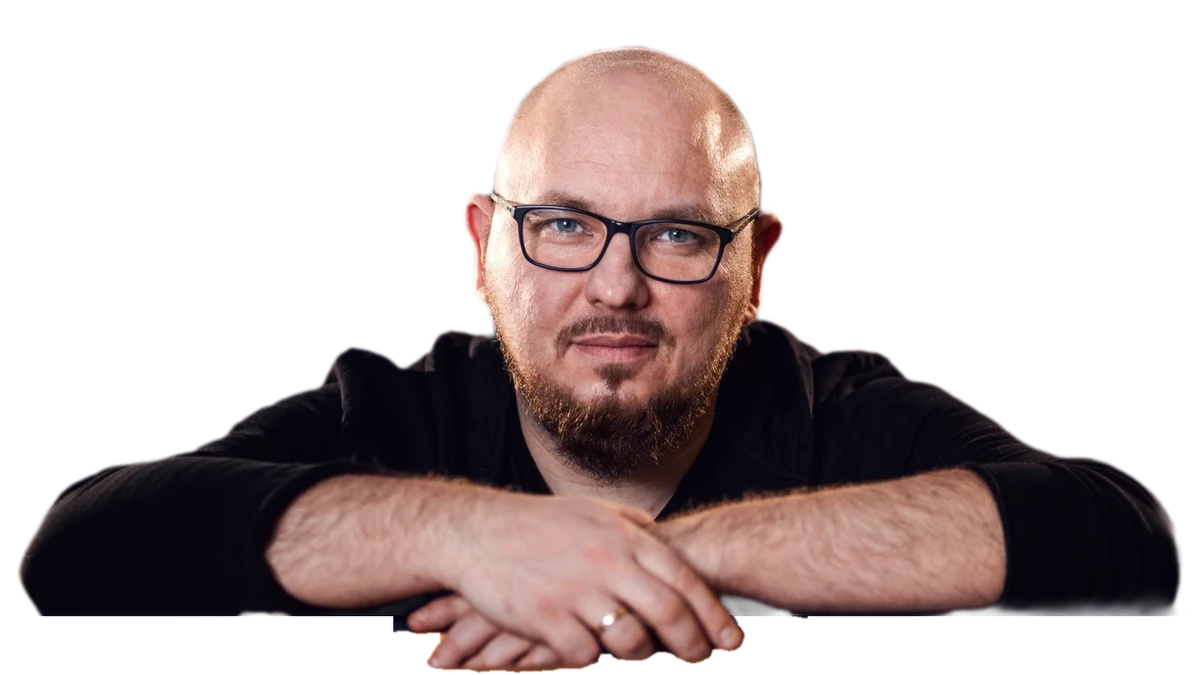
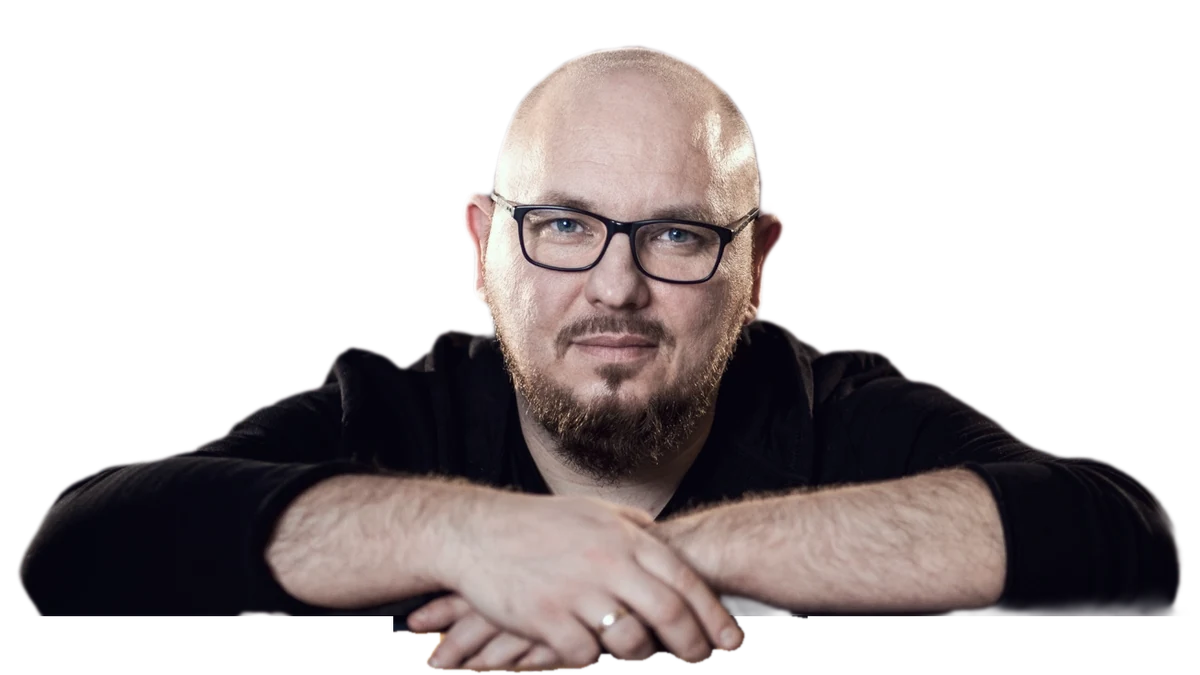
Ciemny pierwszy ekran ze zdjęciem (biały tekst w lewej kolumnie), dokładne narożniki ekranu laptopa, Układ Komediowy na laptopie, historie: tekst po stronie bez laptopa, chłodniejszy portret

diff --git a/src/lib/glowna-tresc.ts b/src/lib/glowna-tresc.ts
@@ -55,6 +55,8 @@ export interface Historia {
   obraz: string;
   /** Gdzie na zdjęciu stoi laptop, żeby na telefonie kadr go nie uciął (object-position). */
   kadr: string;
+  /** Po której stronie zdjęcia stoi tekst: tam, gdzie nie ma laptopa. */
+  tekst: 'lewo' | 'prawo';
   tytul: string;
   opis: string;
   href: string;
@@ -63,8 +65,8 @@ export interface Historia {
 
 /** Sekcja realizacji w stylu „historie”: zdjęcie przy laptopie + zakładki 01–03 + rozwijane pytania. */
 export const HISTORIE: Historia[] = [
-  { nazwa: 'Pan Kolektor', etykieta: 'Serwis kolektorów', obraz: '/images/glowna/historie/pankolektor.webp', kadr: '82% 50%', tytul: 'Telefon zawsze pod ręką', opis: 'Numer w nagłówku i na pierwszym ekranie, certyfikaty i realizacje z dachów. Klient z awarią dzwoni od razu, zamiast szukać dalej.', href: '/realizacje/pan-kolektor/', pytania: [['A jeśli nie mam dobrych zdjęć?', 'Wystarczą zdjęcia z telefonu z Twoich realizacji. Wybieramy najlepsze i dbamy, żeby wyglądały porządnie.'], ['Kto pisze treści?', 'My. Po 15-minutowej rozmowie piszemy teksty o Twoich usługach, a Ty tylko je akceptujesz.']] },
-  { nazwa: 'R&L Serwis', etykieta: 'Firma sprzątająca', obraz: '/images/glowna/historie/rlserwis.webp', kadr: '30% 50%', tytul: 'Dwie ścieżki zamiast jednego formularza', opis: 'Osobna wycena dla domu i dla biura, opinie klientów na pierwszym ekranie. Każdy od razu trafia tam, gdzie powinien.', href: '/realizacje/rl-serwis/', pytania: [['Czy zapytania przyjdą na telefon?', 'Tak. Każde zgłoszenie z formularza od razu trafia na Twój telefon i maila.'], ['A jak będę chciał coś zmienić?', 'Piszesz maila. Do godziny zmian w miesiącu jest w cenie.']] },
+  { nazwa: 'Pan Kolektor', etykieta: 'Serwis kolektorów', obraz: '/images/glowna/historie/pankolektor.webp', kadr: '82% 50%', tekst: 'lewo', tytul: 'Telefon zawsze pod ręką', opis: 'Numer w nagłówku i na pierwszym ekranie, certyfikaty i realizacje z dachów. Klient z awarią dzwoni od razu, zamiast szukać dalej.', href: '/realizacje/pan-kolektor/', pytania: [['A jeśli nie mam dobrych zdjęć?', 'Wystarczą zdjęcia z telefonu z Twoich realizacji. Wybieramy najlepsze i dbamy, żeby wyglądały porządnie.'], ['Kto pisze treści?', 'My. Po 15-minutowej rozmowie piszemy teksty o Twoich usługach, a Ty tylko je akceptujesz.']] },
+  { nazwa: 'R&L Serwis', etykieta: 'Firma sprzątająca', obraz: '/images/glowna/historie/rlserwis.webp', kadr: '30% 50%', tekst: 'prawo', tytul: 'Dwie ścieżki zamiast jednego formularza', opis: 'Osobna wycena dla domu i dla biura, opinie klientów na pierwszym ekranie. Każdy od razu trafia tam, gdzie powinien.', href: '/realizacje/rl-serwis/', pytania: [['Czy zapytania przyjdą na telefon?', 'Tak. Każde zgłoszenie z formularza od razu trafia na Twój telefon i maila.'], ['A jak będę chciał coś zmienić?', 'Piszesz maila. Do godziny zmian w miesiącu jest w cenie.']] },
 ];
 
 /** Trzy duże kadry na górze sekcji: firmy usługowe na tym samym planie co klient. */
@@ -128,11 +130,12 @@ export { ROZMIAR_ZDJECIA };
 
 /** Pierwszy ekran: jedno zdjęcie w tle nagłówka, na ekranie laptopa przewijają się nasze strony. */
 export const SCENY: Scena[] = [
-  { foto: '/images/glowna/sceny/biuro-cieple.webp', rogi: [[1264, 264], [2262, 540], [2160, 1272], [1224, 924]], kadr: [0.78, 0.5], strony: [
+  { foto: '/images/glowna/sceny/biuro-cieple.webp', rogi: [[1270, 272], [2257, 545], [2155, 1275], [1225, 940]], kadr: [0.78, 0.5], strony: [
     { nazwa: 'Zdalna Księgowa', adres: 'zdalnaksiegowa.com.pl', obraz: '/images/glowna/hero/zdalnaksiegowa-pc.webp' },
     { nazwa: 'Pan Kolektor', adres: 'pankolektor.pl', obraz: '/images/glowna/hero/pankolektor-pc.webp' },
     { nazwa: 'Iwona Węgrowska', adres: 'iwonawegrowska.pl', obraz: '/images/glowna/hero/iwona-pc.webp' },
     { nazwa: 'R&L Serwis', adres: 'rlserwis.pl', obraz: '/images/glowna/hero/rlserwis-pc.webp' },
+    { nazwa: 'Układ Komediowy', adres: 'ukladkomediowy.pl', obraz: '/images/glowna/hero/uklad-pc.webp' },
     { nazwa: 'Dźwięk Dobry', adres: 'dzwiekdobry.pl', obraz: '/images/glowna/realizacje/dzwiek.webp' },
     { nazwa: 'moje-rodo', adres: 'moje-rodo.pl', obraz: '/images/glowna/realizacje/moje-rodo.webp' },
     { nazwa: 'Klaudia Pałka', adres: 'klaudiapalka.pl', obraz: '/images/glowna/realizacje/klaudia.webp' },

diff --git a/src/styles/glowna.css b/src/styles/glowna.css
@@ -116,16 +116,27 @@ a { color: inherit; }
 /* pierwszy ekran: zdjęcia ludzi przy laptopach na całą szerokość; na ekranie laptopa zmieniają się nasze strony
    (zrzut nakładany transformacją matrix3d na narożniki ekranu, scripts/scena.ts) */
 .scena { position: relative; height: 460px; overflow: hidden; background: var(--night); }
-/* komputer: zdjęcie w tle całego nagłówka, przygaszone i przechodzące w tło strony od lewej, żeby tekst był czytelny */
+/* ciemny pierwszy ekran (wzór: superpower.com): zdjęcie przyciemnione fioletową czernią od lewej, biały tekst,
+   laptop ze zmieniającymi się stronami świeci po prawej; dół przechodzi w ciemny pas faktów */
+.hero { background: var(--night); color: var(--white); }
+.hero .hero-sub .lead strong, .hero .hero-sub .lead b, .hero .hero-sub .note b { color: var(--white); }
+.hero .hero-sub .lead span, .hero .hero-sub .note { color: var(--night-muted); }
+.hero .btn-ghost { color: var(--white); border-color: rgba(255,255,255,.55); }
+.hero .btn-ghost:hover { box-shadow: 3px 3px 0 var(--signal); }
+.hero .btn-signal:hover { box-shadow: 3px 3px 0 var(--white); }
 @media (min-width: 980px) {
-  .hero { padding-bottom: 72px; }
-  .scena { position: absolute; inset: 0; height: auto; z-index: -1; background: var(--paper); }
+  .hero { padding-bottom: 96px; }
+  /* cały tekst w lewej kolumnie, prawa strona zostaje dla laptopa */
+  .hero-sub { grid-template-columns: 1fr; max-width: 560px; gap: 24px; }
+  .hero-sub p { order: -1; }
+  .hero-sub .note { margin-top: -6px; }
+  .scena { position: absolute; inset: 0; height: auto; z-index: -1; }
   .scena::after { content: ""; position: absolute; inset: 0; z-index: 2; pointer-events: none;
-    background: linear-gradient(90deg, var(--paper) 0%, rgba(238,237,243,.96) 40%, rgba(238,237,243,.78) 58%, rgba(238,237,243,.42) 78%, rgba(238,237,243,.28) 100%),
-                linear-gradient(0deg, var(--paper) 0%, transparent 16%),
-                linear-gradient(180deg, var(--paper) 0%, transparent 10%); }
-  .scena .scena-podpis { z-index: 3; left: auto; right: max(16px, env(safe-area-inset-right, 0px)); bottom: 24px; }
+    background: linear-gradient(90deg, rgba(7,5,16,.94) 0%, rgba(7,5,16,.86) 36%, rgba(7,5,16,.45) 60%, rgba(7,5,16,.12) 82%, rgba(7,5,16,.05) 100%),
+                linear-gradient(0deg, var(--night) 0%, transparent 22%); }
+  .scena .scena-podpis { z-index: 3; left: auto; right: max(16px, env(safe-area-inset-right, 0px)); bottom: 28px; }
 }
+
 .scena-foto { position: absolute; inset: 0; width: 100%; height: 100%; object-fit: cover; opacity: 0; transition: opacity 1s ease; }
 .scena-foto.on { opacity: 1; }
 .ekran { position: absolute; left: 0; top: 0; transform-origin: 0 0; overflow: hidden; background: #fff; transition: opacity .5s ease; opacity: 0; }

diff --git a/src/styles/glowna-sekcje.css b/src/styles/glowna-sekcje.css
@@ -160,7 +160,13 @@
 .story-img { position: absolute; inset: 0; width: 100%; height: 100%; object-fit: cover; opacity: 0; transform: scale(1.06); transition: opacity .9s ease, transform 7s linear; }
 .story-img.on { opacity: 1; transform: scale(1); }
 .story::after { content: ""; position: absolute; inset: 0; background: linear-gradient(90deg, rgba(7,5,16,.86) 0%, rgba(7,5,16,.62) 34%, rgba(7,5,16,.1) 62%, transparent 75%); pointer-events: none; }
-.story-txt { position: relative; z-index: 1; max-width: 520px; padding: 40px 40px 44px; }
+.story-txt { position: relative; z-index: 1; max-width: 520px; padding: 40px 40px 44px; transition: margin .6s cubic-bezier(.2,.8,.2,1); }
+.story::after { transition: background .6s ease; }
+/* historia z laptopem po lewej: tekst i przyciemnienie po prawej */
+@media (min-width: 761px) {
+  .story.tekst-prawo .story-txt { margin-left: auto; }
+  .story.tekst-prawo::after { background: linear-gradient(270deg, rgba(7,5,16,.86) 0%, rgba(7,5,16,.62) 34%, rgba(7,5,16,.1) 62%, transparent 75%); }
+}
 .story-tabs { display: flex; flex-wrap: wrap; gap: 6px; margin-bottom: 26px; }
 .story-tab { position: relative; overflow: hidden; display: inline-flex; align-items: center; gap: 8px; padding: 8px 12px; border: 1px solid rgba(255,255,255,.28); background: rgba(7,5,16,.35); color: var(--white); font: 500 14px/1 var(--body); cursor: pointer; backdrop-filter: blur(6px); }
 .story-tab .nm { display: none; }

diff --git a/src/scripts/czastki.ts b/src/scripts/czastki.ts
@@ -6,8 +6,12 @@
  * Bez canvas albo przy ograniczonych animacjach tekst jest widoczny od razu (hero.astro).
  */
 
-const KOLORY = ['#5B8CFF', '#A8A2BD', '#2A2540', '#FF7A59', '#2FB3A3', '#5B8CFF'];
-const ATRAMENT = [15, 12, 26];
+const KOLORY = ['#5B8CFF', '#A8A2BD', '#FFFFFF', '#FF7A59', '#2FB3A3', '#5B8CFF'];
+/** Kolor, do którego kulki gasną: kolor tekstu nagłówka (na ciemnym pierwszym ekranie biały). */
+function kolorTekstu(el: HTMLElement): number[] {
+  const m = getComputedStyle(el).color.match(/\d+(\.\d+)?/g);
+  return m ? m.slice(0, 3).map(Number) : [15, 12, 26];
+}
 const WIERSZ_MS = 340; // odstęp między startem kolejnych wierszy kaskady
 const FALA_MS = 340; // fala od lewej do prawej w obrębie wiersza
 const NASYP_MS = 150; // jak długo sypie się jedna litera (od dołu do góry)
@@ -168,6 +172,7 @@ export async function czastki(): Promise<void> {
     });
   });
   const koniecLotu = Math.max(...kulki.map((k) => k.start)) + SPADEK_MS;
+  const ATRAMENT = kolorTekstu(h1);
   const t0 = performance.now();
 
   const klatka = (teraz: number): void => {

diff --git a/src/scripts/glowna.ts b/src/scripts/glowna.ts
@@ -99,6 +99,7 @@ function historie(): void {
   const panele = Array.from(sekcja.querySelectorAll<HTMLElement>('.story-panel'));
   const zdjecia = Array.from(sekcja.querySelectorAll<HTMLElement>('.story-img'));
   sekcja.style.setProperty('--czas', `${CZAS_HISTORII_MS}ms`);
+  const strony = czytajJson<string[]>(sekcja, 'data-strony') ?? [];
   let biezaca = 0;
   let licznik = 0;
   const pokaz = (i: number): void => {
@@ -106,6 +107,7 @@ function historie(): void {
     zakladki.forEach((z, k) => z.setAttribute('aria-selected', String(k === i)));
     panele.forEach((p, k) => { p.hidden = k !== i; });
     zdjecia.forEach((z, k) => z.classList.toggle('on', k === i));
+    sekcja.classList.toggle('tekst-prawo', strony[i] === 'prawo');
   };
   const auto = (): void => {
     clearInterval(licznik);
